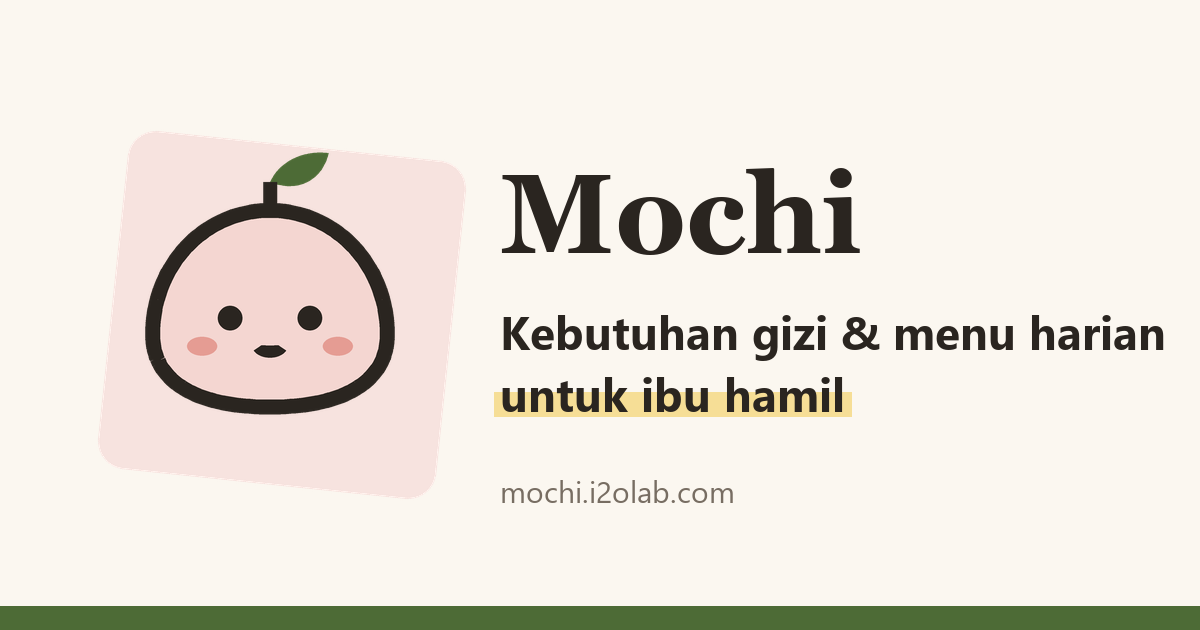
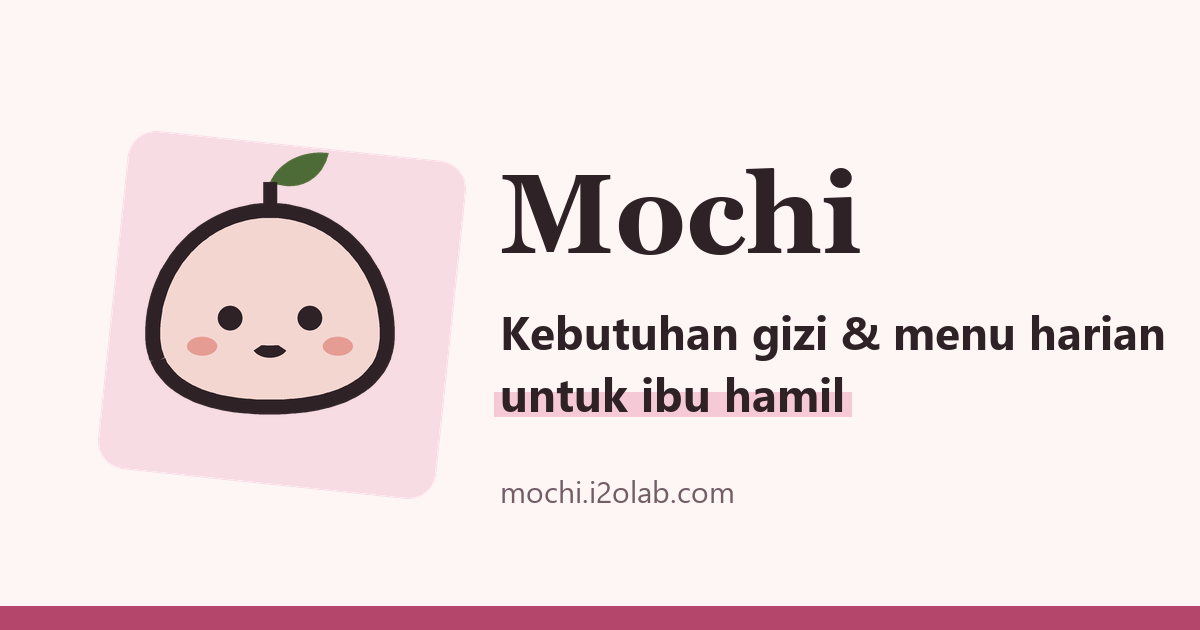
style: switch palette to soft pink/rose
Primary accent matcha -> rose (#b4466b, 5.2:1 with white text), blush
backgrounds, pink highlight; all text pairs checked for >=4.5:1 contrast.
OG image and apple-touch-icon regenerated to match.

Changed region(s): [[0.0, 0.9349, 1.0, 1.0], [0.4008, 0.6032, 0.7092, 0.6635]]

diff --git a/src/index.css b/src/index.css
@@ -1,25 +1,25 @@
 /*
   Mochi — tampilan
-  Kertas krem, tinta cokelat tua, hijau matcha, merah muda Buku KIA.
+  Putih kemerahan, tinta cokelat-plum, rose, merah muda Buku KIA.
   Display: Fraunces (SOFT, serif yang membulat — seperti mochi). Teks: Plus Jakarta Sans.
 */
 
 :root {
-  --paper: #fbf7f0;
-  --paper-deep: #f3ecdf;
-  --card: #fffefb;
-  --ink: #2a2520;
-  --ink-soft: #5e554b;
-  --ink-faint: #776d62;
-  --line: #e7ddcd;
-  --line-strong: #d3c4ad;
+  --paper: #fdf6f5;
+  --paper-deep: #f8e6e4;
+  --card: #fffdfc;
+  --ink: #2e2226;
+  --ink-soft: #64525a;
+  --ink-faint: #725d67;
+  --line: #f0dcda;
+  --line-strong: #e2c3c0;
 
-  --matcha: #4d6b36;
-  --matcha-deep: #3b5428;
-  --matcha-wash: #e9efdf;
-  --mochi: #f4d6d1;
-  --mochi-wash: #fbece9;
-  --mochi-deep: #a9473f;
+  --rose: #b4466b;
+  --rose-deep: #94345a;
+  --rose-wash: #fbe4ea;
+  --mochi: #f6d3dc;
+  --mochi-wash: #fcedf1;
+  --mochi-deep: #a23b62;
   --kunyit: #f2c94c;
   --kunyit-wash: #fbf1d3;
 
@@ -32,7 +32,7 @@
 
   --radius: 14px;
   --radius-sm: 9px;
-  --shadow-paper: 0 1px 0 rgba(42, 37, 32, 0.04), 0 10px 30px -18px rgba(42, 37, 32, 0.35);
+  --shadow-paper: 0 1px 0 rgba(46, 34, 38, 0.04), 0 10px 30px -18px rgba(46, 34, 38, 0.35);
   --container: 1120px;
 }
 
@@ -95,7 +95,7 @@ button {
 }
 
 :focus-visible {
-  outline: 2px solid var(--matcha);
+  outline: 2px solid var(--rose);
   outline-offset: 2px;
 }
 
@@ -137,9 +137,9 @@ button {
   max-width: 38rem;
 }
 
-/* Stabilo kunyit di belakang kata — dipakai hemat */
+/* Stabilo merah muda di belakang kata — dipakai hemat */
 .hl {
-  background: linear-gradient(transparent 58%, rgba(242, 201, 76, 0.55) 58%, rgba(242, 201, 76, 0.55) 92%, transparent 92%);
+  background: linear-gradient(transparent 58%, rgba(236, 150, 178, 0.45) 58%, rgba(236, 150, 178, 0.45) 92%, transparent 92%);
   padding: 0 0.08em;
 }
 
@@ -171,13 +171,13 @@ button {
 }
 
 .btn-primary {
-  background: var(--matcha);
+  background: var(--rose);
   color: #fff;
   box-shadow: inset 0 -2px 0 rgba(0, 0, 0, 0.18);
 }
 
 .btn-primary:hover {
-  background: var(--matcha-deep);
+  background: var(--rose-deep);
 }
 
 .btn-ghost {
@@ -202,7 +202,7 @@ button {
 
 .link-arrow {
   font-weight: 600;
-  color: var(--matcha-deep);
+  color: var(--rose-deep);
   text-decoration: underline;
   text-decoration-thickness: 1.5px;
   text-underline-offset: 3px;
@@ -227,7 +227,7 @@ button {
   position: sticky;
   top: 0;
   z-index: 50;
-  background: rgba(251, 247, 240, 0.92);
+  background: rgba(253, 246, 245, 0.92);
   backdrop-filter: blur(8px);
   border-bottom: 1px solid var(--line);
 }
@@ -401,14 +401,14 @@ button {
   padding: 1.5rem 1.5rem 1.25rem 2.25rem;
   box-shadow: var(--shadow-paper);
   transform: rotate(-1.2deg);
-  background-image: linear-gradient(to right, transparent 1.45rem, rgba(169, 71, 63, 0.35) 1.45rem, rgba(169, 71, 63, 0.35) calc(1.45rem + 1px), transparent calc(1.45rem + 1px));
+  background-image: linear-gradient(to right, transparent 1.45rem, rgba(180, 70, 107, 0.35) 1.45rem, rgba(180, 70, 107, 0.35) calc(1.45rem + 1px), transparent calc(1.45rem + 1px));
 }
 
 .note-card.back {
   position: absolute;
   inset: 0;
   background: var(--mochi);
-  border-color: #e9c3bd;
+  border-color: #efc9d2;
   transform: rotate(3deg) translate(10px, 6px);
   box-shadow: none;
 }
@@ -667,7 +667,7 @@ button {
   font-family: var(--font-display);
   font-size: 1.4rem;
   line-height: 1;
-  color: var(--matcha);
+  color: var(--rose);
 }
 
 .faq details[open] summary::after {
@@ -687,7 +687,7 @@ button {
   flex-wrap: wrap;
   gap: 1.5rem;
   background: var(--mochi-wash);
-  border: 1px solid #efd3ce;
+  border: 1px solid #f1d2da;
   border-radius: var(--radius);
   padding: 2rem 2.25rem;
 }
@@ -788,8 +788,8 @@ button {
 .field input:focus,
 .input-unit input:focus {
   outline: none;
-  border-color: var(--matcha);
-  box-shadow: 0 0 0 3px var(--matcha-wash);
+  border-color: var(--rose);
+  box-shadow: 0 0 0 3px var(--rose-wash);
 }
 
 /* Satuan di dalam kotak isian: "158 | cm" */
@@ -837,7 +837,7 @@ button {
   position: absolute;
   left: 0.95rem;
   top: 1.05rem;
-  accent-color: var(--matcha);
+  accent-color: var(--rose);
   width: 1rem;
   height: 1rem;
 }
@@ -856,8 +856,8 @@ button {
 }
 
 .activity-option.checked {
-  border-color: var(--matcha);
-  background: var(--matcha-wash);
+  border-color: var(--rose);
+  background: var(--rose-wash);
 }
 
 .chip-row {
@@ -1006,7 +1006,7 @@ button {
   padding: 0.35rem 0.85rem;
   border-radius: 999px;
   background: var(--mochi);
-  color: #6d2a24;
+  color: #7a2848;
   font-weight: 600;
   font-size: 0.88rem;
   margin-bottom: 0.9rem;
@@ -1019,7 +1019,7 @@ button {
   align-items: center;
   background: var(--card);
   border: 1px solid var(--line);
-  border-left: 6px solid var(--matcha);
+  border-left: 6px solid var(--rose);
   border-radius: var(--radius);
   padding: 1.75rem 2rem;
   margin-bottom: 1.25rem;
@@ -1139,8 +1139,8 @@ button {
   position: absolute;
   top: -1px;
   bottom: -1px;
-  background: var(--matcha-wash);
-  border: 1.5px solid var(--matcha);
+  background: var(--rose-wash);
+  border: 1.5px solid var(--rose);
   border-radius: 999px;
 }
 
@@ -1335,7 +1335,7 @@ button {
 .goal-fill {
   height: 100%;
   border-radius: 999px;
-  background: var(--matcha);
+  background: var(--rose);
 }
 
 .price-line {
@@ -1390,7 +1390,7 @@ button {
 .check input {
   width: 1.1rem;
   height: 1.1rem;
-  accent-color: var(--matcha);
+  accent-color: var(--rose);
 }
 
 .segmented {
@@ -1422,7 +1422,7 @@ button {
 .saved-line {
   margin-top: 1rem;
   text-align: center;
-  color: var(--matcha-deep);
+  color: var(--rose-deep);
   font-weight: 600;
 }
 
@@ -1521,7 +1521,7 @@ button {
   width: 6px;
   height: 6px;
   border-radius: 50%;
-  background: var(--matcha);
+  background: var(--rose);
 }
 
 /* ---------- Loader ---------- */
@@ -1538,7 +1538,7 @@ button {
   margin: 1.5rem auto 0;
   border-radius: 50%;
   border: 3px solid var(--line);
-  border-top-color: var(--matcha);
+  border-top-color: var(--rose);
   animation: spin 0.9s linear infinite;
 }
 
@@ -1746,7 +1746,7 @@ button {
 }
 
 .meal-card.snack .meal-head {
-  background: var(--mochi-wash);
+  background: var(--rose-wash);
 }
 
 .meal-card.snack .meal-head h2 {

diff --git a/src/pages/Education.tsx b/src/pages/Education.tsx
@@ -7,12 +7,12 @@ type IconType = React.ComponentType<{ size?: number | string; strokeWidth?: numb
 const META: Record<string, { icon: IconType; bg: string }> = {
   'EDU-IRON': { icon: Beef, bg: 'var(--mochi)' },
   'EDU-IFA': { icon: Pill, bg: 'var(--mochi-wash)' },
-  'EDU-DIVERSITY': { icon: Salad, bg: 'var(--matcha-wash)' },
+  'EDU-DIVERSITY': { icon: Salad, bg: 'var(--rose-wash)' },
   'EDU-PROTEIN': { icon: Apple, bg: 'var(--kunyit-wash)' },
   'EDU-CALCIUM-FOLATE': { icon: Milk, bg: 'var(--paper-deep)' },
 };
 
-const FALLBACK_META = { icon: Apple as IconType, bg: 'var(--matcha-wash)' };
+const FALLBACK_META = { icon: Apple as IconType, bg: 'var(--rose-wash)' };
 
 const Education: React.FC = () => {
   const [openId, setOpenId] = useState<string | null>(EDUCATION_MODULES[0].id);

diff --git a/index.html b/index.html
@@ -10,7 +10,7 @@
 
     <link rel="icon" type="image/svg+xml" href="/logo.svg" />
     <link rel="apple-touch-icon" href="/apple-touch-icon.png" />
-    <meta name="theme-color" content="#FBF7F0" />
+    <meta name="theme-color" content="#FDF6F5" />
 
     <meta property="og:type" content="website" />
     <meta property="og:site_name" content="Mochi" />
